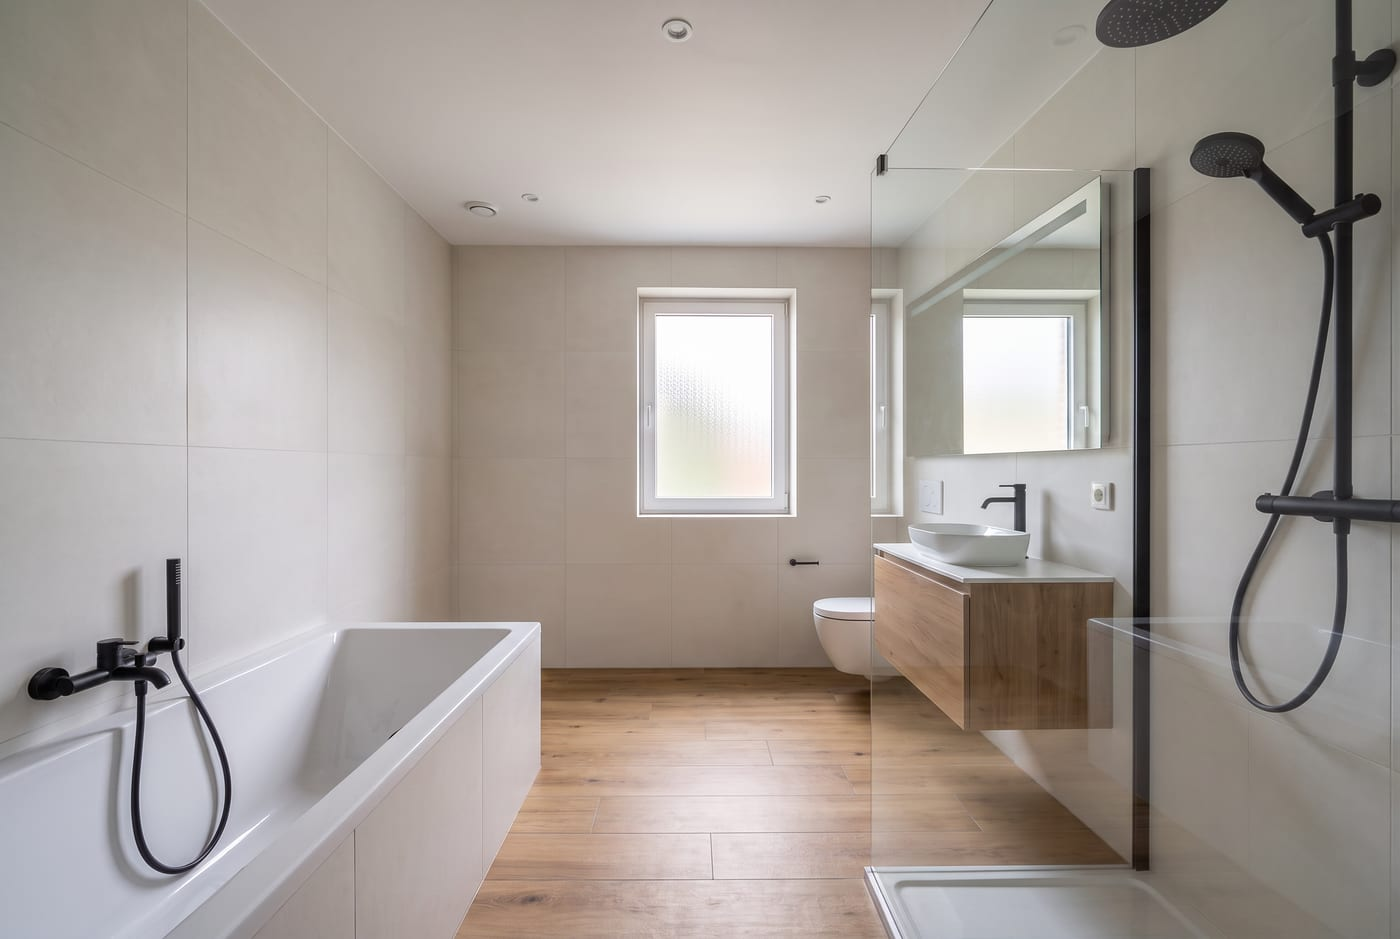
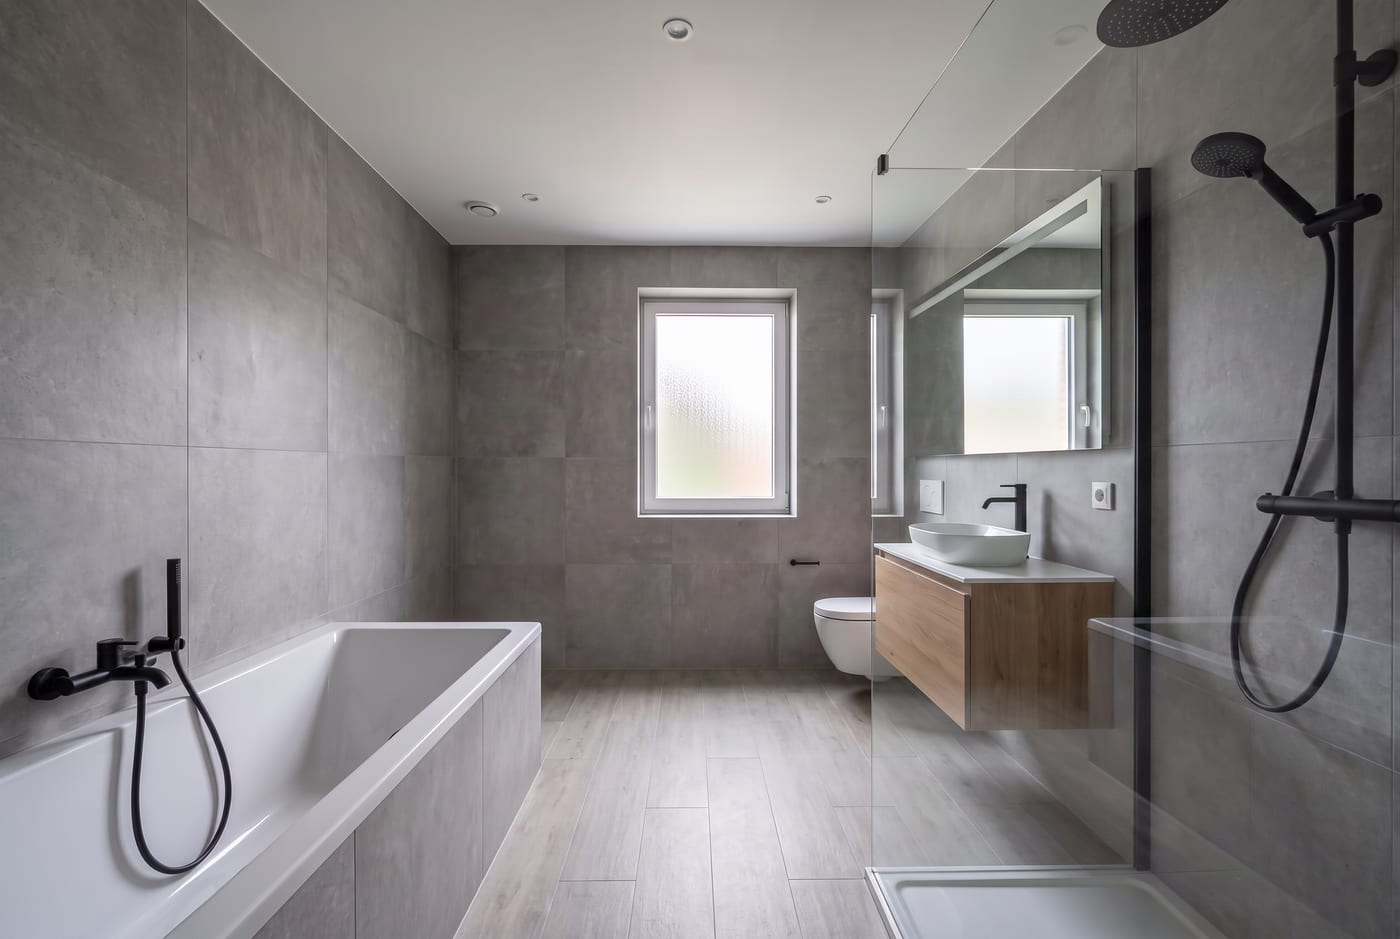
Badkamerschetser af: twaalf beelden op onderzochte materiaalregels
Wie "geen toilet" koos zag bij vijf van de zes tegellooks de betonlook-basis
met een uitleg eronder. Eerlijk, maar het beloofde iets anders dan het toonde.
De vijf ontbrekende beelden zijn er nu: elke look bestaat met en zonder toilet.

Marmer en houtlook zijn opnieuw gemaakt. Marmer was mat gerenderd terwijl
marmerlook-porselein in deze toepassing gepolijst is: het hoort het raam als
scherpe reflectie terug te geven. En de adering liep door over de voegen,
wat bij keramiek niet gebeurt. Houtlook had wanden die ongevraagd creme werden;
die blijven nu betonlook grijs, en de planken zijn 20x120 met een derde
verspringing in plaats van brede naadloze stroken.

De regels per materiaal komen uit onderzoek dat daarna adversarieel getoetst
is: tegelformaat, voegmaat en -kleur, legverband, glansgraad en hoeveel de
tegels onderling mogen verschillen. Verzonnen series en maten vielen in die
toets af. Zonder zulke regels tekent een generator marmer dat over de voegen
doorloopt en plankbreedtes die niet bestaan.

De guard mat maar een van de twee takken; hij draait nu beide en eist twaalf
verschillende beelden. Het vangnet — een look zonder eigen beeld toont de
basis met uitleg — was daarmee niet meer te meten, want alles bestaat. De
keuzelogica staat daarom als pure functie in kiesBeeld, met tests die haar
tegen een opzettelijk onvolledige beeldenbank draaien.

Gefalsifieerd: een ontbrekend beeld en twee looks die hetzelfde tonen geven
[…]

diff --git a/src/pages/abbouw/lp/replica/Schetser.tsx b/src/pages/abbouw/lp/replica/Schetser.tsx
@@ -12,6 +12,11 @@ import tMarmer from '@/assets/schetser/t-marmer.jpg';
 import tZandsteen from '@/assets/schetser/t-zandsteen.jpg';
 import tHout from '@/assets/schetser/t-hout.jpg';
 import tMicro from '@/assets/schetser/t-micro.jpg';
+import gAntraciet from '@/assets/schetser/g-antraciet.jpg';
+import gMarmer from '@/assets/schetser/g-marmer.jpg';
+import gZandsteen from '@/assets/schetser/g-zandsteen.jpg';
+import gHout from '@/assets/schetser/g-hout.jpg';
+import gMicro from '@/assets/schetser/g-micro.jpg';
 
 /**
  * Ontwerp uw eigen badkamer.
@@ -49,10 +54,19 @@ const RUIMTES: Ruimte[] = [
  * maar één ding. Losse generaties gaven zes verschillende kamers — daar viel
  * niets mee te vergelijken.
  *
- * De sleutel is toilet + tegelkeuze. De tegelas is volledig uitgewerkt voor de
- * ruimte met toilet; voor de ruimte zonder toilet bestaat vandaag alleen de
- * basisafwerking. Wat er niet is, wordt niet stilzwijgend vervangen: het
- * onderschrift zegt dan welke afwerking er wél te zien is.
+ * De sleutel is toilet + tegelkeuze, en beide takken zijn nu volledig: elke
+ * look bestaat met en zonder toilet. Wie "geen toilet" koos zag eerder bij vijf
+ * van de zes looks de betonlook-basis met een uitleg eronder; dat was eerlijk,
+ * maar het beloofde iets anders dan het toonde.
+ *
+ * De terugval blijft in de code staan. Komt er een look bij zonder dat beide
+ * beelden gemaakt zijn, dan toont de schetser liever een ander beeld met een
+ * eerlijk onderschrift dan een gebroken plaatje.
+ *
+ * Elk beeld is gemaakt met onderzochte materiaalregels: tegelformaat, voegmaat
+ * en -kleur, legverband, glansgraad en hoeveel de tegels onderling verschillen.
+ * Zonder die regels tekent een generator marmer dat over de voegen doorloopt en
+ * houtlook in plankbreedtes die niet bestaan.
  */
 const STANDAARDTEGEL = 'Betonlook grijs';
 
@@ -64,9 +78,34 @@ const BEELDEN: Record<string, string> = {
   'wc|Houtlook': tHout,
   'wc|Microcement': tMicro,
   'geenwc|Betonlook grijs': basisGeenWc,
+  'geenwc|Antraciet': gAntraciet,
+  'geenwc|Marmerlook wit': gMarmer,
+  'geenwc|Beige zandsteen': gZandsteen,
+  'geenwc|Houtlook': gHout,
+  'geenwc|Microcement': gMicro,
 };
 
 const NIET_ERTUSSEN = 'anders';
+
+/**
+ * Welk beeld hoort bij deze keuze, en klopt het met wat er gevraagd werd.
+ *
+ * Apart en puur, zodat het vangnet toetsbaar blijft. In de pagina bestaat elke
+ * combinatie, dus valt er niets terug en kan een browsercheck niet bewijzen dat
+ * de terugval nog werkt. Met een onvolledige beeldenbank kan dat hier wel.
+ */
+/** Alleen voor de test: zo kan die de echte bank toetsen zonder hem te kopieren. */
+export const BEELDEN_TEST = BEELDEN;
+
+export function kiesBeeld(
+  toiletdeel: string,
+  tegelkeuze: string | undefined,
+  bank: Record<string, string> = BEELDEN,
+) {
+  const gevraagd = tegelkeuze && tegelkeuze !== NIET_ERTUSSEN ? tegelkeuze : STANDAARDTEGEL;
+  const getoond = bank[`${toiletdeel}|${gevraagd}`] ? gevraagd : STANDAARDTEGEL;
+  return { gevraagd, getoond, beeld: bank[`${toiletdeel}|${getoond}`] };
+}
 
 const ASSEN: As[] = [
   { sleutel: 'Tegels', vraag: 'Tegels', opties: [
@@ -135,9 +174,8 @@ export default function Schetser() {
      onderschrift dat er iets anders te zien is dan wat er gekozen werd. */
   const tegelkeuze = keuzes['Tegels'];
   const toiletdeel = wc ? 'wc' : 'geenwc';
-  const gevraagd = tegelkeuze && tegelkeuze !== NIET_ERTUSSEN ? tegelkeuze : STANDAARDTEGEL;
-  const getoond = BEELDEN[`${toiletdeel}|${gevraagd}`] ? gevraagd : STANDAARDTEGEL;
-  const beeld = gekozenRuimte ? BEELDEN[`${toiletdeel}|${getoond}`] : null;
+  const { gevraagd, getoond, beeld: gekozenBeeld } = kiesBeeld(toiletdeel, tegelkeuze);
+  const beeld = gekozenRuimte ? gekozenBeeld : null;
   const ietsAnders = useMemo(
     () => Object.values(keuzes).some((v) => v === NIET_ERTUSSEN), [keuzes]);
 

diff --git a/src/pages/abbouw/lp/replica/Schetser.test.ts b/src/pages/abbouw/lp/replica/Schetser.test.ts
@@ -1,0 +1,79 @@
+import { describe, expect, it } from 'vitest';
+import { kiesBeeld } from './Schetser';
+
+/**
+ * Het vangnet van de badkamerschetser.
+ *
+ * In de pagina zelf heeft elke tegellook een eigen beeld, met en zonder toilet.
+ * Daardoor valt er niets meer terug, en kan de browsercheck niet meer bewijzen
+ * dat de terugval nog werkt — een meting die niets tegenkomt bewijst niets.
+ *
+ * Deze tests voeren de keuze uit met een opzettelijk onvolledige beeldenbank.
+ * Zo blijft aantoonbaar dat de volgende look die iemand toevoegt zonder beeld
+ * niet in stilte een gebroken plaatje oplevert.
+ */
+const HALF = {
+  'wc|Betonlook grijs': 'basis-wc.jpg',
+  'wc|Antraciet': 'antraciet-wc.jpg',
+  'geenwc|Betonlook grijs': 'basis-geenwc.jpg',
+};
+
+describe('kiesBeeld, het vangnet van de schetser', () => {
+  it('toont het gevraagde beeld wanneer die combinatie bestaat', () => {
+    const r = kiesBeeld('wc', 'Antraciet', HALF);
+    expect(r.gevraagd).toBe('Antraciet');
+    expect(r.getoond).toBe('Antraciet');
+    expect(r.beeld).toBe('antraciet-wc.jpg');
+  });
+
+  it('valt terug op de basis wanneer de combinatie ontbreekt, en meldt dat', () => {
+    const r = kiesBeeld('geenwc', 'Antraciet', HALF);
+    expect(r.gevraagd).toBe('Antraciet');
+    /* getoond wijkt af van gevraagd: daarop baseert het onderschrift zijn
+       uitleg dat er iets anders te zien is dan wat gekozen werd. */
+    expect(r.getoond).toBe('Betonlook grijs');
+    expect(r.getoond).not.toBe(r.gevraagd);
+    expect(r.beeld).toBe('basis-geenwc.jpg');
+  });
+
+  it('geeft nooit een leeg beeld terug zolang de basis bestaat', () => {
+    for (const toilet of ['wc', 'geenwc']) {
+      for (const look of ['Antraciet', 'Marmerlook wit', 'Houtlook', 'bestaat niet']) {
+        expect(kiesBeeld(toilet, look, HALF).beeld).toBeTruthy();
+      }
+    }
+  });
+
+  it('behandelt "staat er niet tussen" als de basis, zonder terugvalmelding', () => {
+    const r = kiesBeeld('wc', 'anders', HALF);
+    /* Dit is een keuze, geen terugval: de bezoeker beschrijft het zelf in het
+       veld eronder, dus hoort het onderschrift geen excuus te maken. */
+    expect(r.gevraagd).toBe('Betonlook grijs');
+    expect(r.getoond).toBe(r.gevraagd);
+  });
+
+  it('behandelt een lege keuze als de basis', () => {
+    const r = kiesBeeld('wc', undefined, HALF);
+    expect(r.getoond).toBe('Betonlook grijs');
+    expect(r.beeld).toBe('basis-wc.jpg');
+  });
+});
+
+describe('de echte beeldenbank', () => {
+  it('heeft voor elke look een eigen beeld, met en zonder toilet', async () => {
+    const { BEELDEN_TEST } = await import('./Schetser');
+    const looks = ['Betonlook grijs', 'Antraciet', 'Marmerlook wit', 'Beige zandsteen', 'Houtlook', 'Microcement'];
+    const gezien = new Set<string>();
+    for (const toilet of ['wc', 'geenwc']) {
+      for (const look of looks) {
+        const r = kiesBeeld(toilet, look, BEELDEN_TEST);
+        /* getoond === gevraagd bewijst dat er niets terugvalt. */
+        expect(r.getoond, `${toilet} + ${look} valt terug`).toBe(look);
+        gezien.add(r.beeld as string);
+      }
+    }
+    /* En elk beeld is een ander bestand: twee combinaties die hetzelfde tonen
+       zou de bezoeker laten klikken zonder dat er iets verandert. */
+    expect(gezien.size).toBe(looks.length * 2);
+  });
+});
